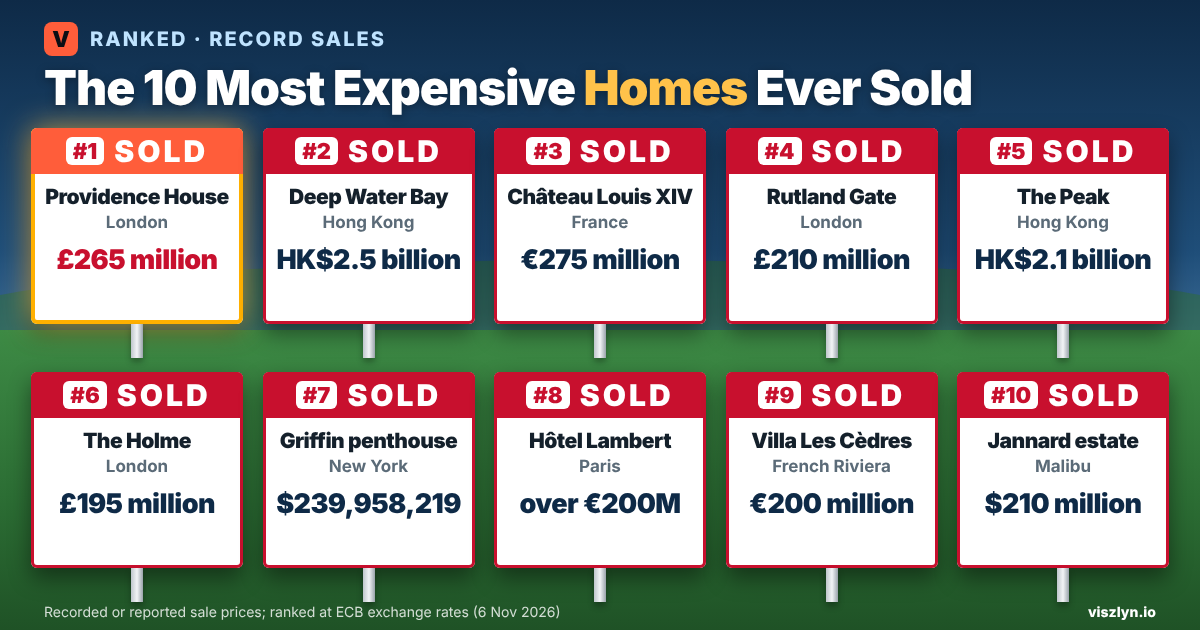
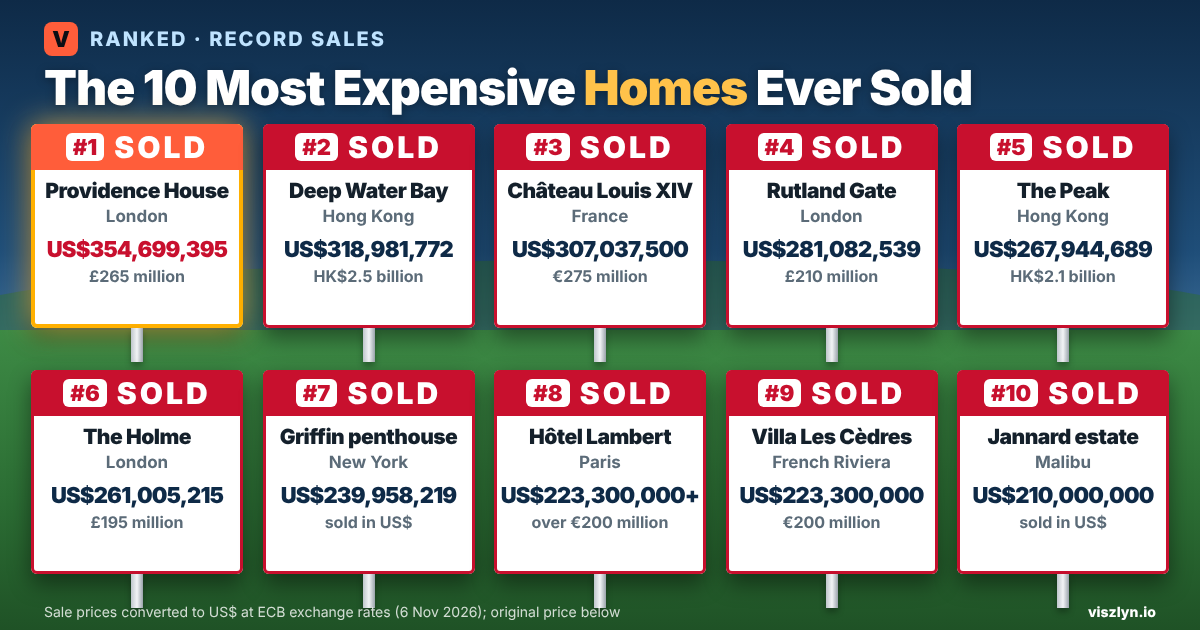
Homes: lead with US$ prices, original currency in brackets (page + Discover image)
Claude-Session: https://claude.ai/code/session_01Lx7Mnbsr2j6Zre36XCS9Kp

diff --git a/src/data/rankings/most-expensive-homes-2026.ts b/src/data/rankings/most-expensive-homes-2026.ts
@@ -7,17 +7,17 @@ export const mostExpensiveHomes2026: RankingArticle = {
 
   metaTitle: "The 10 Most Expensive Homes Ever Sold, Ranked | Viszlyn",
   metaDescription:
-    "London's Providence House sold for a reported £265 million in 2026, the most ever paid for a home. The 10 most expensive homes ever sold, from London and Hong Kong to Paris, New York and Malibu.",
+    "London's Providence House sold for a reported US$354,699,395 (£265 million) in 2026, the most ever paid for a home. The 10 most expensive homes ever sold, from London and Hong Kong to Paris, New York and Malibu.",
   ogTitle: "The 10 Most Expensive Homes Ever Sold",
   ogDescription:
-    "A £265 million London mansion, a HK$2.5 billion Hong Kong house and a €275 million French château: the 10 priciest home sales ever.",
+    "A US$354,699,395 London mansion, a US$318,981,772 Hong Kong house and a US$307,037,500 French château: the 10 priciest home sales ever.",
   twitterTitle: "The 10 Most Expensive Homes Ever Sold",
   twitterDescription:
-    "Providence House, London £265M; Deep Water Bay, Hong Kong HK$2.5B; Château Louis XIV €275M. The top 10 home sales ever, ranked.",
+    "Providence House, London US$354,699,395; Deep Water Bay, Hong Kong US$318,981,772; Château Louis XIV US$307,037,500. The top 10 home sales ever, ranked.",
 
   eyebrow: "Money",
   title: "The 10 Most Expensive Homes Ever Sold",
-  dek: "Three of the 10 are in London, three in France, two in Hong Kong and two in the US. The record now belongs to Providence House in Chelsea, which sold for a reported £265 million in 2026.",
+  dek: "Three of the 10 are in London, three in France, two in Hong Kong and two in the US. The record now belongs to Providence House in Chelsea, which sold for a reported £265 million (US$354,699,395) in 2026.",
   publishedDate: "November 16, 2026",
   lastUpdated: "November 16, 2026",
   dataPeriod: "Completed sales up to November 2026; prices converted to US dollars at ECB reference rates on 6 November 2026",
@@ -25,13 +25,13 @@ export const mostExpensiveHomes2026: RankingArticle = {
     src: "/heroes/most-expensive-homes-2026.png",
     onPage: false,
     ogSrc: "/heroes/most-expensive-homes-2026-og.png",
-    alt: "Ten red SOLD signs on a lawn, one for each of the most expensive homes ever sold: Providence House London £265M, Deep Water Bay Hong Kong HK$2.5B, Château Louis XIV €275M, Rutland Gate London £210M, The Peak Hong Kong HK$2.1B, The Holme London £195M, Ken Griffin's penthouse at 220 Central Park South New York $239,958,219, Hôtel Lambert Paris over €200M, Villa Les Cèdres €200M and Malibu $210M.",
+    alt: "Ten red SOLD signs on a lawn, one for each of the most expensive homes ever sold, with prices in US dollars: Providence House London US$354,699,395, Deep Water Bay Hong Kong US$318,981,772, Château Louis XIV US$307,037,500, Rutland Gate London US$281,082,539, The Peak Hong Kong US$267,944,689, The Holme London US$261,005,215, Ken Griffin's penthouse New York US$239,958,219, Hôtel Lambert Paris over US$223,300,000, Villa Les Cèdres US$223,300,000 and a Malibu estate US$210,000,000.",
   },
 
   quickAnswer:
-    "The most expensive home ever sold is Providence House in Chelsea, London, which sold for a reported £265 million (US$354,699,395 at November 2026 exchange rates) in 2026. A house in Deep Water Bay, Hong Kong, is second at HK$2.5 billion (US$318,981,772), sold in 2017, and Château Louis XIV near Versailles is third at €275 million (US$307,037,500), sold in 2015. The most expensive home ever sold in the US is Ken Griffin's penthouse at 220 Central Park South, New York, at US$239,958,219.",
+    "The most expensive home ever sold is Providence House in Chelsea, London, which sold for a reported US$354,699,395 (£265 million, converted at November 2026 exchange rates) in 2026. A house in Deep Water Bay, Hong Kong, is second at US$318,981,772 (HK$2.5 billion), sold in 2017, and Château Louis XIV near Versailles is third at US$307,037,500 (€275 million), sold in 2015. The most expensive home ever sold in the US is Ken Griffin's penthouse at 220 Central Park South, New York, at US$239,958,219.",
   introParagraph:
-    "Headline prices for trophy homes are often inflated, or turn out to be asking prices, refinancings or several properties sold together. This ranking only counts completed sales of a single home, with each price taken from official property records or company filings where they exist, and otherwise from major financial news outlets. Each entry says which. The sales happened in different years and currencies, so to compare them on one scale we converted every price to US dollars at the same European Central Bank reference rates, on 6 November 2026. The original prices are shown too.",
+    "Headline prices for trophy homes are often inflated, or turn out to be asking prices, refinancings or several properties sold together. This ranking only counts completed sales of a single home, with each price taken from official property records or company filings where they exist, and otherwise from major financial news outlets. Each entry says which. The sales happened in different years and currencies, so to compare them on one scale we converted every price to US dollars at the same European Central Bank reference rates, on 6 November 2026. Prices are shown in US dollars, with the original price in brackets.",
   calloutBox: {
     label: "The famous homes that aren't here",
     body: "Some of the world's most valuable homes have never been sold, so they have no sale price. Antilia, Mukesh Ambani's home in Mumbai, was estimated by Forbes in 2014 at upward of US$1 billion, and Villa Leopolda on the French Riviera at €500 million. We also left out a Monte Carlo penthouse reported at €240 million in 2010, because reports disagree on whether it was a sale or a long lease and Monaco has no public property register, and a US$225 million Naples, Florida deal in 2025 that covered three separate properties.",
@@ -67,7 +67,7 @@ export const mostExpensiveHomes2026: RankingArticle = {
     {
       rank: 9,
       name: "Villa Les Cèdres, France",
-      earnings: "€200,000,000 (US$223,300,000) (2019)",
+      earnings: "US$223,300,000 (€200,000,000, 2019)",
       category: "Saint-Jean-Cap-Ferrat, France",
       blurb: "Campari Group sold Villa Les Cèdres on the French Riviera for €200 million in October 2019. The buyer was Ukrainian billionaire Rinat Akhmetov, confirmed by his own company.",
       standoutFact: "The price is stated in the seller's own audited annual report, one of the strongest sources in this ranking.",
@@ -76,7 +76,7 @@ export const mostExpensiveHomes2026: RankingArticle = {
     {
       rank: 8,
       name: "Hôtel Lambert, Paris",
-      earnings: "More than €200,000,000 (more than US$223,300,000) (2022)",
+      earnings: "More than US$223,300,000 (more than €200,000,000, 2022)",
       category: "Paris, France",
       blurb: "Hôtel Lambert, a mansion on the Île Saint-Louis in the heart of Paris, sold in February 2022 for more than €200 million, according to Bloomberg. The buyer has not confirmed the purchase.",
       standoutFact: "The exact price was never published, so this is a minimum; it ranks above Villa Les Cèdres because its price was reported as more than €200 million.",
@@ -94,7 +94,7 @@ export const mostExpensiveHomes2026: RankingArticle = {
     {
       rank: 6,
       name: "The Holme, London",
-      earnings: "£195,000,000 (US$261,005,215) (2026)",
+      earnings: "US$261,005,215 (£195,000,000, 2026)",
       category: "London, United Kingdom",
       blurb: "The Holme, a mansion in Regent's Park, sold for a reported £195 million in June 2026. The buyer has not been disclosed.",
       standoutFact: "It sold just 18 months after a £139 million sale by receivers in 2024, so the price rose by £56 million.",
@@ -103,7 +103,7 @@ export const mostExpensiveHomes2026: RankingArticle = {
     {
       rank: 5,
       name: "The Peak house, Hong Kong",
-      earnings: "HK$2,100,000,000 (US$267,944,689) (2019)",
+      earnings: "US$267,944,689 (HK$2,100,000,000, 2019)",
       category: "Hong Kong",
       blurb: "A house on The Peak sold for HK$2.1 billion to Chen Hongtian. The deal was agreed in June 2016 and completed in February 2019, and the price is recorded in the seller's filing to the Hong Kong stock exchange.",
       standoutFact: "About a fifth of the price was paid with a property in Shenzhen rather than cash. In August 2025 the house was resold for HK$790 million after being seized by creditors.",
@@ -112,7 +112,7 @@ export const mostExpensiveHomes2026: RankingArticle = {
     {
       rank: 4,
       name: "Rutland Gate mansion, London",
-      earnings: "£210,000,000 (US$281,082,539) (2020)",
+      earnings: "US$281,082,539 (£210,000,000, 2020)",
       category: "London, United Kingdom",
       blurb: "A mansion at Rutland Gate in Knightsbridge sold for £210 million on 21 April 2020 to Cheung Chung-kiu, whose family office confirmed the purchase.",
       standoutFact: "Its price is confirmed in the UK's official Land Registry price-paid data.",
@@ -121,7 +121,7 @@ export const mostExpensiveHomes2026: RankingArticle = {
     {
       rank: 3,
       name: "Château Louis XIV, France",
-      earnings: "€275,000,000 (US$307,037,500) (2015)",
+      earnings: "US$307,037,500 (€275,000,000, 2015)",
       category: "Louveciennes, France",
       blurb: "Château Louis XIV in Louveciennes, near Versailles, sold for a reported €275 million in 2015, according to Bloomberg. The buyer was not officially disclosed.",
       standoutFact: "Bloomberg and Money called it the world's most expensive home when the sale was reported in December 2015.",
@@ -130,7 +130,7 @@ export const mostExpensiveHomes2026: RankingArticle = {
     {
       rank: 2,
       name: "Deep Water Bay house, Hong Kong",
-      earnings: "HK$2,500,000,000 (US$318,981,772) (2017)",
+      earnings: "US$318,981,772 (HK$2,500,000,000, 2017)",
       category: "Hong Kong",
       blurb: "A 13,854-square-foot house in Deep Water Bay sold for a reported HK$2.5 billion in 2017. Hong Kong Land Registry documents show businessman Pan Sutong as the owner.",
       standoutFact: "Hong Kong is the only place outside London and France with two homes in the top 10; the other is the HK$2.1 billion Peak house.",
@@ -139,7 +139,7 @@ export const mostExpensiveHomes2026: RankingArticle = {
     {
       rank: 1,
       name: "Providence House, London",
-      earnings: "£265,000,000 (US$354,699,395) (2026)",
+      earnings: "US$354,699,395 (£265,000,000, 2026)",
       category: "London, United Kingdom",
       blurb: "Providence House, property developer Nick Candy's former mansion in the grounds of the Royal Hospital Chelsea, sold for a reported £265 million, with the deal completed in May 2026. The buyer has not been disclosed.",
       standoutFact: "Reports gave prices from £265 million to more than £275 million; an investigation by Tax Policy Associates found the higher figure traced to a citation error. As of September 2026 the sale was not yet registered at the Land Registry, and the deal also included five small flats worth about £1.75 million.",
@@ -181,7 +181,7 @@ export const mostExpensiveHomes2026: RankingArticle = {
     {
       question: "What is the most expensive home ever sold?",
       answer:
-        "Providence House in Chelsea, London, which sold for a reported £265 million in 2026 (US$354,699,395 at ECB rates on 6 November 2026). Before that, the record was a house in Deep Water Bay, Hong Kong, sold for a reported HK$2.5 billion in 2017.",
+        "Providence House in Chelsea, London, which sold for a reported US$354,699,395 (£265 million, converted at ECB rates on 6 November 2026) in 2026. Before that, the record was a house in Deep Water Bay, Hong Kong, sold for a reported US$318,981,772 (HK$2.5 billion) in 2017.",
     },
     {
       question: "What is the most expensive home ever sold in the US?",
